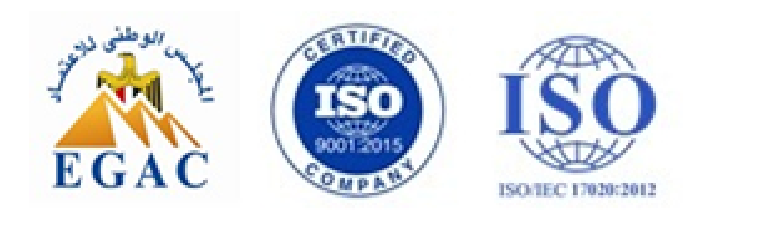
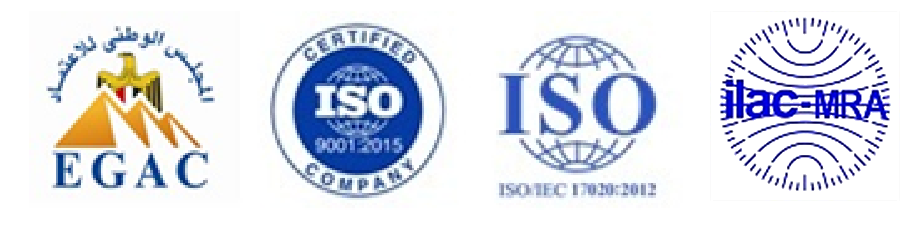
Print the ILAC-MRA accreditation beside EGAC and the two ISO marks on certificates
The footer image now holds four marks, and its area is widened from 150 to 190 pt so they stay readable.

diff --git a/Inspecta.Infrastructure/Pdf/Templates/CertificatePdfTemplate.cs b/Inspecta.Infrastructure/Pdf/Templates/CertificatePdfTemplate.cs
@@ -176,7 +176,7 @@ public sealed class CertificatePdfTemplate : QuestPdfTemplate<CertificatePdfMode
                     lines.Item().Text("Unauthorized use, reproduction, or distribution is strictly prohibited.").Bold().FontSize(6.8f);
                 });
                 if (Accreditations(model) is { Length: > 0 } accreditations)
-                    row.ConstantItem(150).AlignRight().AlignBottom().Height(46).Image(accreditations).FitArea();
+                    row.ConstantItem(190).AlignRight().AlignBottom().Height(46).Image(accreditations).FitArea();
             });
             column.Item().AlignCenter().Text(text =>
             {
